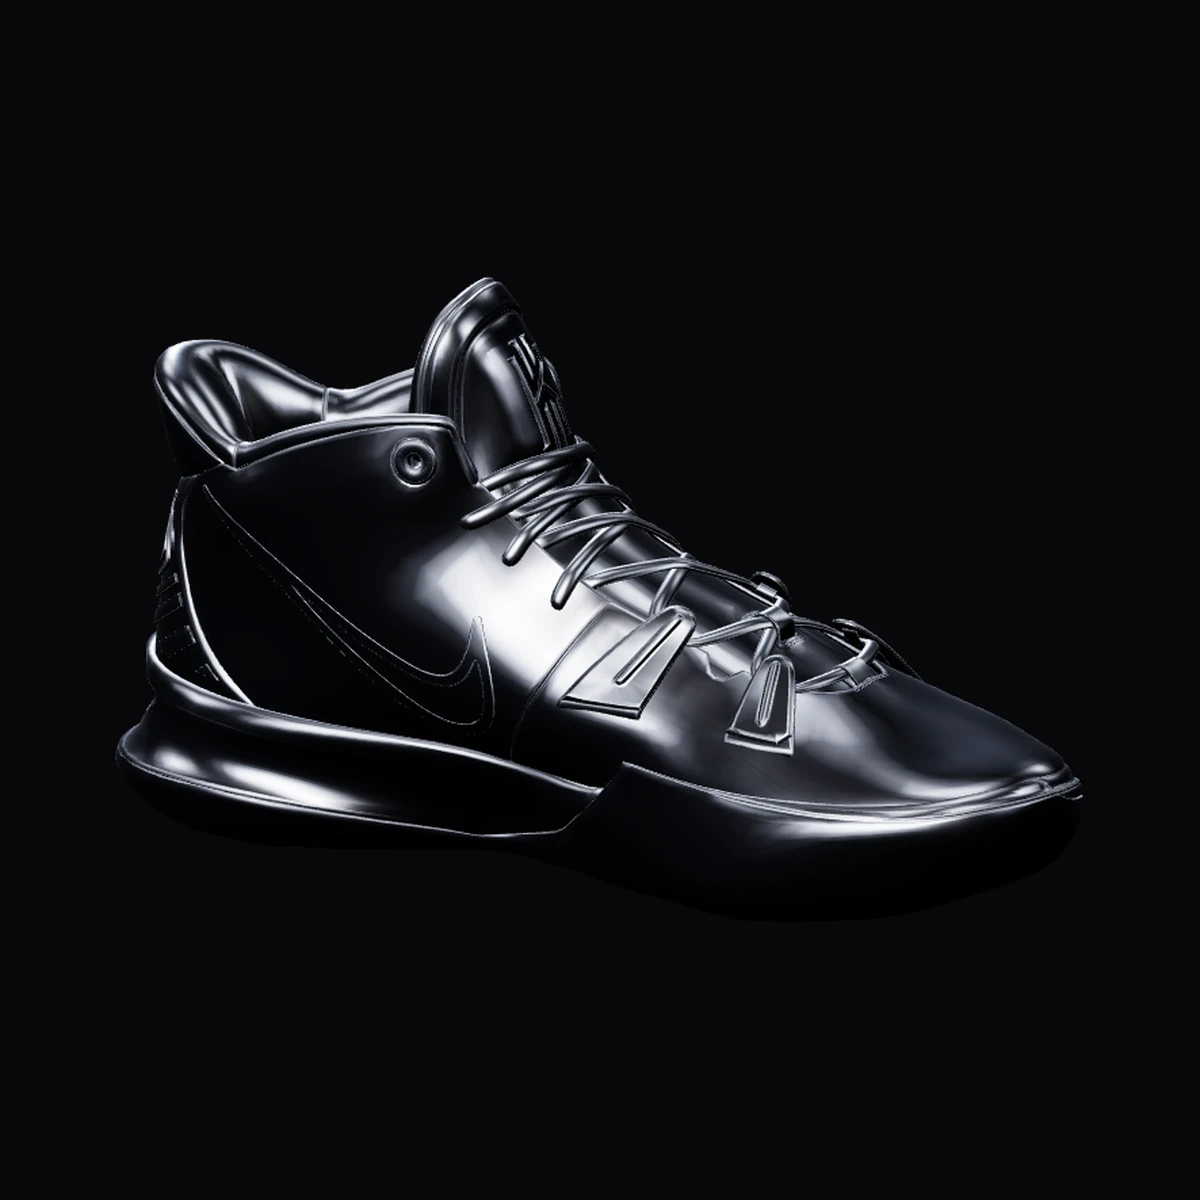
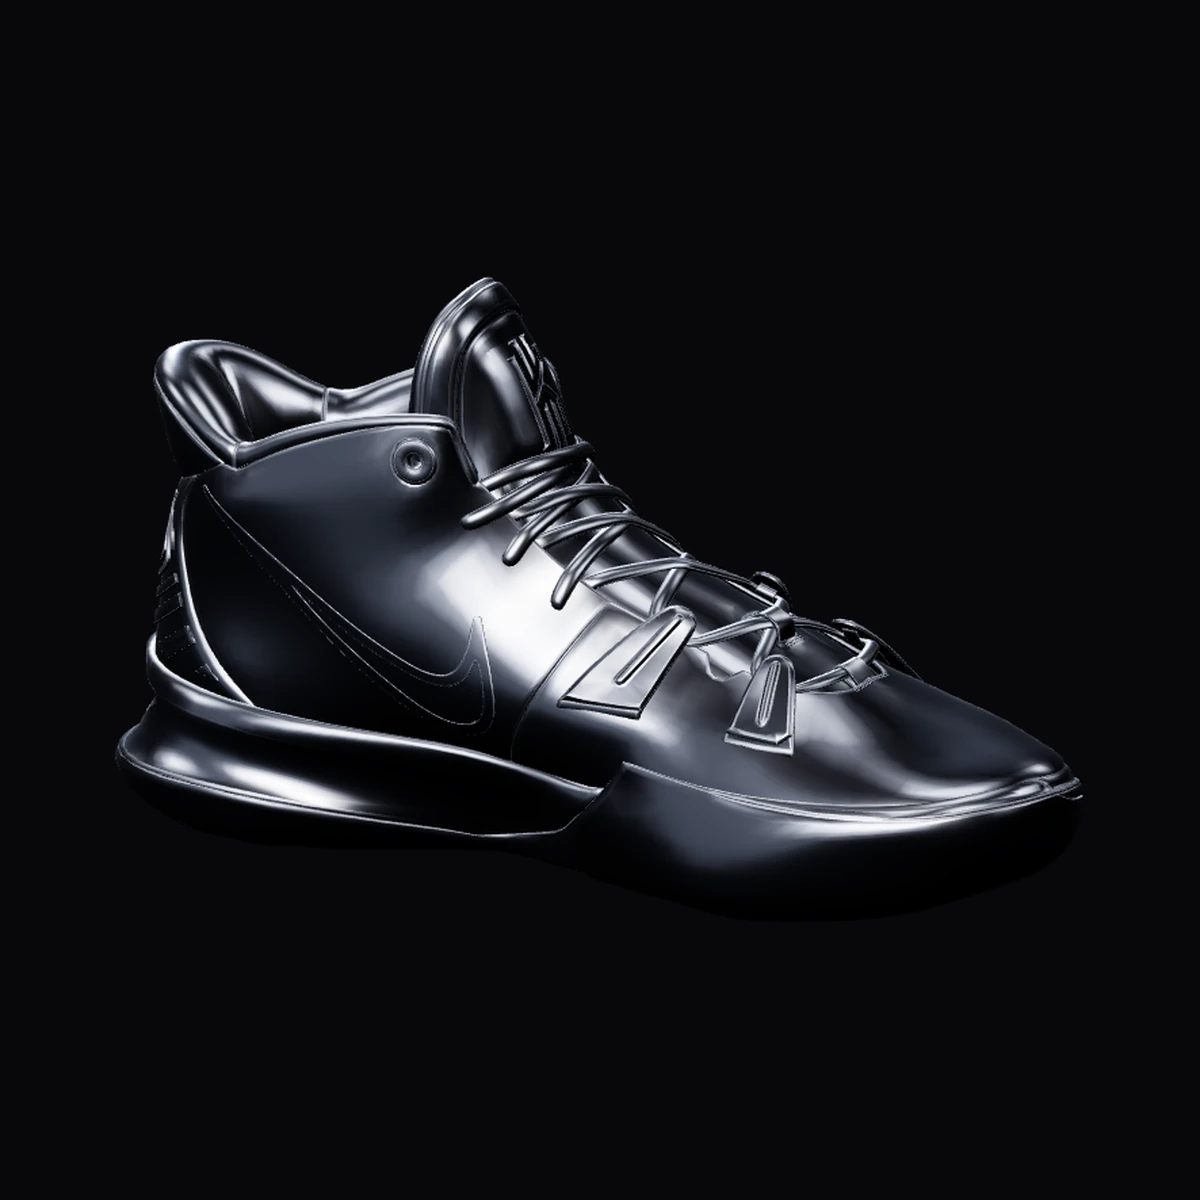
Lift footwear shape with subtle studio fill

Changed region(s): [[0.1542, 0.3083, 0.7092, 0.74], [0.1233, 0.4933, 0.2467, 0.6783], [0.4625, 0.6475, 0.4933, 0.6783]]

diff --git a/assets/js/footwear-viewer.js b/assets/js/footwear-viewer.js
@@ -3,6 +3,7 @@ import * as THREE from 'three';
 import { GLTFLoader } from 'three/addons/loaders/GLTFLoader.js';
 import { OrbitControls } from 'three/addons/controls/OrbitControls.js';
 import { RoomEnvironment } from 'three/addons/environments/RoomEnvironment.js';
+import { RectAreaLightUniformsLib } from 'three/addons/lights/RectAreaLightUniformsLib.js';
 
 function releaseTree(root) {
   if (!root) return;
@@ -183,6 +184,9 @@ export async function mountModelViewer(host, config) {
     for (const [color, intensity, position] of [['#fff7ed', 4, [1, 4, 4]], ['#dce8ff', 3, [-3, 2, -4]]]) {
       const light = new THREE.DirectionalLight(color, intensity); light.position.set(...position); scene.add(light);
     }
+    RectAreaLightUniformsLib.init();
+    const fill = new THREE.RectAreaLight('#e7edf5', .6, 8, 6);
+    fill.position.set(-3, 2, 5); fill.lookAt(0, 0, 0); scene.add(fill);
     metal = new THREE.MeshStandardMaterial({ color: '#5a5e68', metalness: 1, roughness: .26, envMapIntensity: 1.65 });
     clay = new THREE.MeshStandardMaterial({ color: '#96938f', metalness: 0, roughness: .78 });
     depth = new THREE.MeshBasicMaterial({ colorWrite: false, depthWrite: true, polygonOffset: true, polygonOffsetFactor: 1, polygonOffsetUnits: 1 });
@@ -251,7 +255,7 @@ export async function mountModelViewer(host, config) {
     if (edges || !surface || disposed) return;
     if (wirePromise) return wirePromise;
     const token = generation;
-    state('loading', 'Loading edgesâ€¦');
+    state('loading', 'Loading edges...');
     // Keep the current surface visible while the optional edge download completes.
     poster.hidden = true;
     wirePromise = (async () => {
@@ -272,7 +276,7 @@ export async function mountModelViewer(host, config) {
     const token = ++generation;
     requests.forEach(request => request.abort());
     wirePromise = null;
-    state('loading', 'Loading modelâ€¦');
+    state('loading', 'Loading model...');
     try {
       initialize();
       const root = await download(config.model, config.modelBytes, 'model', token);

diff --git a/assets/js/ui.js b/assets/js/ui.js
@@ -378,7 +378,7 @@ export function lightbox() {
       stage.append(host); modelHost = host;
       modelFallback(host, p);
       try {
-        const { mountModelViewer } = await import('./footwear-viewer.js');
+        const { mountModelViewer } = await import('./footwear-viewer.js?v=fill-1');
         if (me !== generation) return;
         const config = { ...p.model };
         for (const key of ['model', 'wire', 'poster']) if (config[key]) config[key] = new URL(config[key], ROOT).href;

diff --git a/fragments/kyrie-7/index.html b/fragments/kyrie-7/index.html
@@ -42,7 +42,7 @@
     async function start() {
       const token = ++generation;
       try {
-        const { mountModelViewer } = await import('../../assets/js/footwear-viewer.js');
+        const { mountModelViewer } = await import('../../assets/js/footwear-viewer.js?v=fill-1');
         if (token !== generation) return;
         const mounted = await mountModelViewer(host, config);
         if (token !== generation) mounted.dispose();
